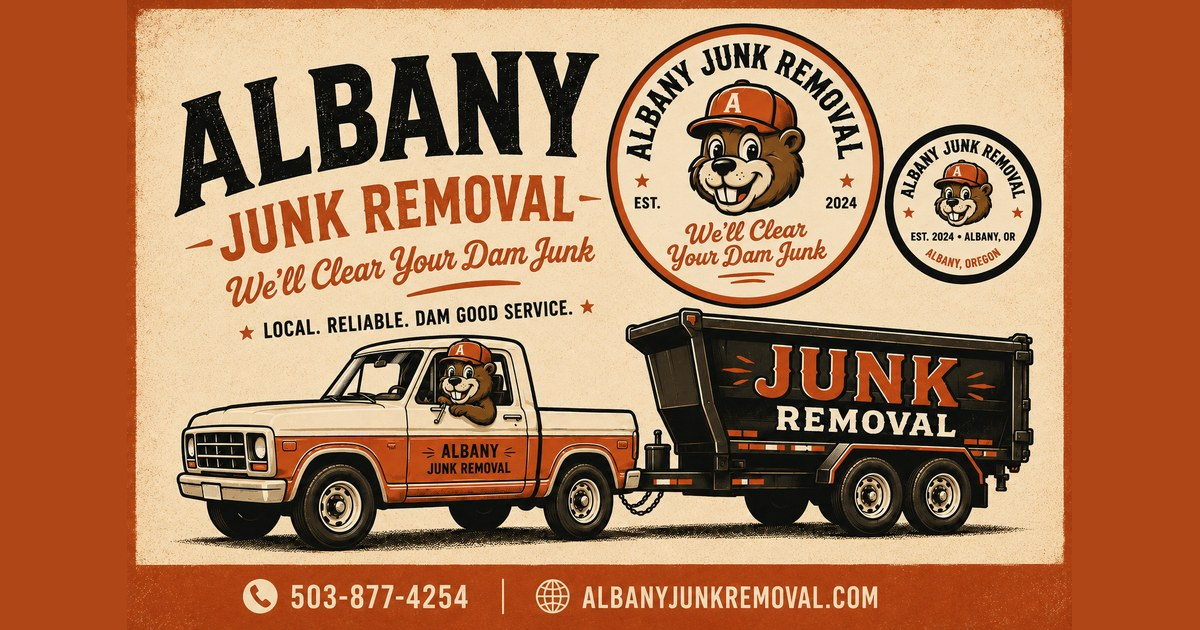
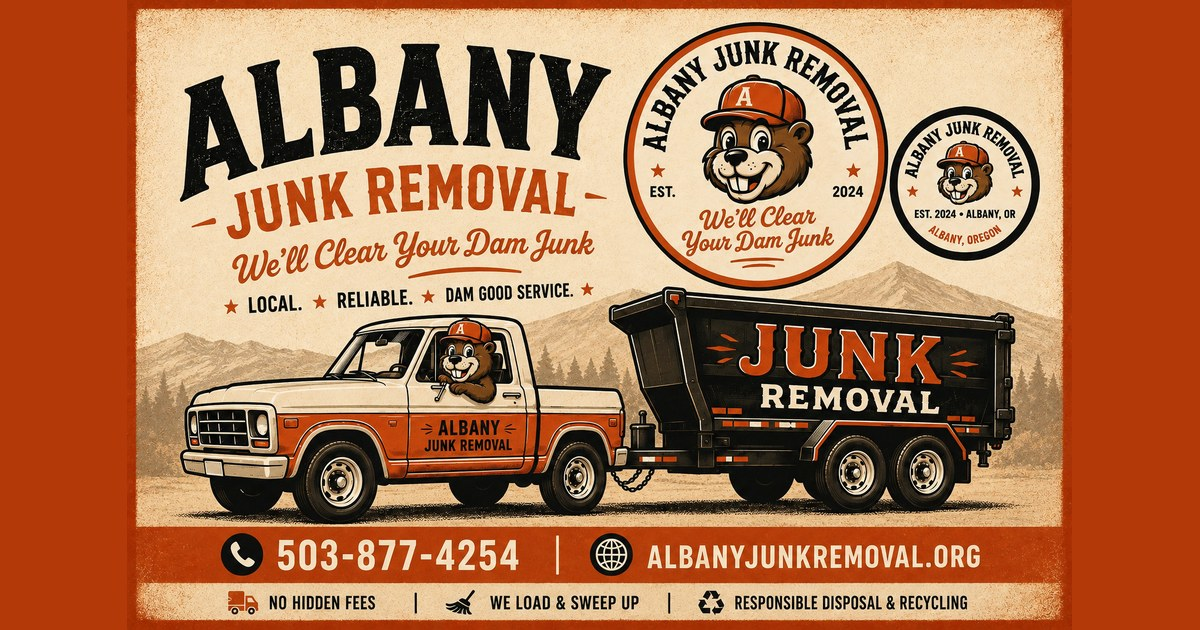
Update the social/link-preview image to the revised poster (#13)
Swap the OG/share image for the updated brand poster (mountain scene,
.org URL, and the "no hidden fees / we load & sweep up / responsible
disposal" bar), fitted to the 1200x630 card framed in brand orange.
Bump the share cache-buster to ?v=4 so platforms re-scrape.

Claude-Session: https://claude.ai/code/session_01XiNgGe3xtdENUqeFvzFZEf

diff --git a/construction-debris-removal/index.html b/construction-debris-removal/index.html
@@ -28,8 +28,8 @@
   <meta property="og:title" content="Construction Debris Removal in Albany, OR" />
   <meta property="og:description" content="We haul away remodel and demolition debris so your site stays clear. Contractor-friendly, no dumpster to rent. Upfront pricing. Get a free quote." />
   <meta property="og:url" content="https://albanyjunkremoval.org/construction-debris-removal/" />
-  <meta property="og:image" content="https://albanyjunkremoval.org/assets/og-image.jpg?v=3" />
-  <meta property="og:image:secure_url" content="https://albanyjunkremoval.org/assets/og-image.jpg?v=3" />
+  <meta property="og:image" content="https://albanyjunkremoval.org/assets/og-image.jpg?v=4" />
+  <meta property="og:image:secure_url" content="https://albanyjunkremoval.org/assets/og-image.jpg?v=4" />
   <meta property="og:image:type" content="image/jpeg" />
   <meta property="og:image:width" content="1200" />
   <meta property="og:image:height" content="630" />
@@ -38,7 +38,7 @@
   <meta name="twitter:card" content="summary_large_image" />
   <meta name="twitter:title" content="Construction Debris Removal in Albany, OR — Albany Junk Removal" />
   <meta name="twitter:description" content="We haul away remodel and demolition debris so your site stays clear. Contractor-friendly, no dumpster to rent. Upfront pricing. Get a free quote." />
-  <meta name="twitter:image" content="https://albanyjunkremoval.org/assets/og-image.jpg?v=3" />
+  <meta name="twitter:image" content="https://albanyjunkremoval.org/assets/og-image.jpg?v=4" />
   <meta name="twitter:image:alt" content="Albany Junk Removal — construction debris removal in Albany, Oregon" />
 
   <link rel="icon" href="/favicon.ico?v=4" sizes="any" />
@@ -69,7 +69,7 @@
           "telephone": "+1-503-877-4254",
           "email": "info@albanyjunkremoval.org",
           "url": "https://albanyjunkremoval.org/",
-          "image": "https://albanyjunkremoval.org/assets/og-image.jpg?v=3",
+          "image": "https://albanyjunkremoval.org/assets/og-image.jpg?v=4",
           "priceRange": "$$",
           "address": { "@type": "PostalAddress", "addressLocality": "Albany", "addressRegion": "OR", "addressCountry": "US" }
         },

diff --git a/office-cleanout/index.html b/office-cleanout/index.html
@@ -28,8 +28,8 @@
   <meta property="og:title" content="Office Cleanout Services in Albany, OR" />
   <meta property="og:description" content="We remove desks, cubicles, chairs and old equipment with minimal disruption, after hours if needed. Fully insured, upfront pricing. Get a free quote." />
   <meta property="og:url" content="https://albanyjunkremoval.org/office-cleanout/" />
-  <meta property="og:image" content="https://albanyjunkremoval.org/assets/og-image.jpg?v=3" />
-  <meta property="og:image:secure_url" content="https://albanyjunkremoval.org/assets/og-image.jpg?v=3" />
+  <meta property="og:image" content="https://albanyjunkremoval.org/assets/og-image.jpg?v=4" />
+  <meta property="og:image:secure_url" content="https://albanyjunkremoval.org/assets/og-image.jpg?v=4" />
   <meta property="og:image:type" content="image/jpeg" />
   <meta property="og:image:width" content="1200" />
   <meta property="og:image:height" content="630" />
@@ -38,7 +38,7 @@
   <meta name="twitter:card" content="summary_large_image" />
   <meta name="twitter:title" content="Office Cleanout Services in Albany, OR — Albany Junk Removal" />
   <meta name="twitter:description" content="We remove desks, cubicles, chairs and old equipment with minimal disruption, after hours if needed. Fully insured, upfront pricing. Get a free quote." />
-  <meta name="twitter:image" content="https://albanyjunkremoval.org/assets/og-image.jpg?v=3" />
+  <meta name="twitter:image" content="https://albanyjunkremoval.org/assets/og-image.jpg?v=4" />
   <meta name="twitter:image:alt" content="Albany Junk Removal — office cleanout services in Albany, Oregon" />
 
   <link rel="icon" href="/favicon.ico?v=4" sizes="any" />
@@ -69,7 +69,7 @@
           "telephone": "+1-503-877-4254",
           "email": "info@albanyjunkremoval.org",
           "url": "https://albanyjunkremoval.org/",
-          "image": "https://albanyjunkremoval.org/assets/og-image.jpg?v=3",
+          "image": "https://albanyjunkremoval.org/assets/og-image.jpg?v=4",
           "priceRange": "$$",
           "address": { "@type": "PostalAddress", "addressLocality": "Albany", "addressRegion": "OR", "addressCountry": "US" }
         },

diff --git a/estate-cleanout/index.html b/estate-cleanout/index.html
@@ -28,8 +28,8 @@
   <meta property="og:title" content="Estate Cleanout Services in Albany, OR | Full-Property Clearing" />
   <meta property="og:description" content="Compassionate, discreet estate cleanouts in Albany, Oregon for families, executors, and realtors. We donate and recycle what we can. Fully insured. Get a free quote." />
   <meta property="og:url" content="https://albanyjunkremoval.org/estate-cleanout/" />
-  <meta property="og:image" content="https://albanyjunkremoval.org/assets/og-image.jpg?v=3" />
-  <meta property="og:image:secure_url" content="https://albanyjunkremoval.org/assets/og-image.jpg?v=3" />
+  <meta property="og:image" content="https://albanyjunkremoval.org/assets/og-image.jpg?v=4" />
+  <meta property="og:image:secure_url" content="https://albanyjunkremoval.org/assets/og-image.jpg?v=4" />
   <meta property="og:image:type" content="image/jpeg" />
   <meta property="og:image:width" content="1200" />
   <meta property="og:image:height" content="630" />
@@ -38,7 +38,7 @@
   <meta name="twitter:card" content="summary_large_image" />
   <meta name="twitter:title" content="Estate Cleanout Services in Albany, OR — Albany Junk Removal" />
   <meta name="twitter:description" content="Compassionate, fully insured estate cleanouts in Albany, Oregon. Honest upfront pricing, no hidden fees." />
-  <meta name="twitter:image" content="https://albanyjunkremoval.org/assets/og-image.jpg?v=3" />
+  <meta name="twitter:image" content="https://albanyjunkremoval.org/assets/og-image.jpg?v=4" />
   <meta name="twitter:image:alt" content="Albany Junk Removal — estate cleanout services in Albany, Oregon" />
 
   <link rel="icon" href="/favicon.ico?v=4" sizes="any" />
@@ -70,7 +70,7 @@
           "telephone": "+1-503-877-4254",
           "email": "info@albanyjunkremoval.org",
           "url": "https://albanyjunkremoval.org/",
-          "image": "https://albanyjunkremoval.org/assets/og-image.jpg?v=3",
+          "image": "https://albanyjunkremoval.org/assets/og-image.jpg?v=4",
           "priceRange": "$$",
           "address": { "@type": "PostalAddress", "addressLocality": "Albany", "addressRegion": "OR", "addressCountry": "US" }
         },

diff --git a/garage-cleanout/index.html b/garage-cleanout/index.html
@@ -28,8 +28,8 @@
   <meta property="og:title" content="Garage Cleanout Services in Albany, OR" />
   <meta property="og:description" content="We clear out everything you do not want, from a few bulky items to a full garage, and sweep up. Fully insured, upfront pricing. Get a free quote." />
   <meta property="og:url" content="https://albanyjunkremoval.org/garage-cleanout/" />
-  <meta property="og:image" content="https://albanyjunkremoval.org/assets/og-image.jpg?v=3" />
-  <meta property="og:image:secure_url" content="https://albanyjunkremoval.org/assets/og-image.jpg?v=3" />
+  <meta property="og:image" content="https://albanyjunkremoval.org/assets/og-image.jpg?v=4" />
+  <meta property="og:image:secure_url" content="https://albanyjunkremoval.org/assets/og-image.jpg?v=4" />
   <meta property="og:image:type" content="image/jpeg" />
   <meta property="og:image:width" content="1200" />
   <meta property="og:image:height" content="630" />
@@ -38,7 +38,7 @@
   <meta name="twitter:card" content="summary_large_image" />
   <meta name="twitter:title" content="Garage Cleanout Services in Albany, OR — Albany Junk Removal" />
   <meta name="twitter:description" content="We clear out everything you do not want, from a few bulky items to a full garage, and sweep up. Fully insured, upfront pricing. Get a free quote." />
-  <meta name="twitter:image" content="https://albanyjunkremoval.org/assets/og-image.jpg?v=3" />
+  <meta name="twitter:image" content="https://albanyjunkremoval.org/assets/og-image.jpg?v=4" />
   <meta name="twitter:image:alt" content="Albany Junk Removal — garage cleanout services in Albany, Oregon" />
 
   <link rel="icon" href="/favicon.ico?v=4" sizes="any" />
@@ -69,7 +69,7 @@
           "telephone": "+1-503-877-4254",
           "email": "info@albanyjunkremoval.org",
           "url": "https://albanyjunkremoval.org/",
-          "image": "https://albanyjunkremoval.org/assets/og-image.jpg?v=3",
+          "image": "https://albanyjunkremoval.org/assets/og-image.jpg?v=4",
           "priceRange": "$$",
           "address": { "@type": "PostalAddress", "addressLocality": "Albany", "addressRegion": "OR", "addressCountry": "US" }
         },

diff --git a/appliance-removal/index.html b/appliance-removal/index.html
@@ -28,8 +28,8 @@
   <meta property="og:title" content="Appliance Removal in Albany, OR" />
   <meta property="og:description" content="We disconnect and haul away refrigerators, washers, dryers, stoves and more, and recycle the metal. Fully insured, upfront pricing. Get a free quote." />
   <meta property="og:url" content="https://albanyjunkremoval.org/appliance-removal/" />
-  <meta property="og:image" content="https://albanyjunkremoval.org/assets/og-image.jpg?v=3" />
-  <meta property="og:image:secure_url" content="https://albanyjunkremoval.org/assets/og-image.jpg?v=3" />
+  <meta property="og:image" content="https://albanyjunkremoval.org/assets/og-image.jpg?v=4" />
+  <meta property="og:image:secure_url" content="https://albanyjunkremoval.org/assets/og-image.jpg?v=4" />
   <meta property="og:image:type" content="image/jpeg" />
   <meta property="og:image:width" content="1200" />
   <meta property="og:image:height" content="630" />
@@ -38,7 +38,7 @@
   <meta name="twitter:card" content="summary_large_image" />
   <meta name="twitter:title" content="Appliance Removal in Albany, OR — Albany Junk Removal" />
   <meta name="twitter:description" content="We disconnect and haul away refrigerators, washers, dryers, stoves and more, and recycle the metal. Fully insured, upfront pricing. Get a free quote." />
-  <meta name="twitter:image" content="https://albanyjunkremoval.org/assets/og-image.jpg?v=3" />
+  <meta name="twitter:image" content="https://albanyjunkremoval.org/assets/og-image.jpg?v=4" />
   <meta name="twitter:image:alt" content="Albany Junk Removal — appliance removal in Albany, Oregon" />
 
   <link rel="icon" href="/favicon.ico?v=4" sizes="any" />
@@ -69,7 +69,7 @@
           "telephone": "+1-503-877-4254",
           "email": "info@albanyjunkremoval.org",
           "url": "https://albanyjunkremoval.org/",
-          "image": "https://albanyjunkremoval.org/assets/og-image.jpg?v=3",
+          "image": "https://albanyjunkremoval.org/assets/og-image.jpg?v=4",
           "priceRange": "$$",
           "address": { "@type": "PostalAddress", "addressLocality": "Albany", "addressRegion": "OR", "addressCountry": "US" }
         },

diff --git a/general-household-junk/index.html b/general-household-junk/index.html
@@ -28,8 +28,8 @@
   <meta property="og:title" content="Household Junk Removal in Albany, OR" />
   <meta property="og:description" content="If you want it gone, we'll take it. General household junk hauled away, one item or a houseful. Upfront pricing. Get a free quote." />
   <meta property="og:url" content="https://albanyjunkremoval.org/general-household-junk/" />
-  <meta property="og:image" content="https://albanyjunkremoval.org/assets/og-image.jpg?v=3" />
-  <meta property="og:image:secure_url" content="https://albanyjunkremoval.org/assets/og-image.jpg?v=3" />
+  <meta property="og:image" content="https://albanyjunkremoval.org/assets/og-image.jpg?v=4" />
+  <meta property="og:image:secure_url" content="https://albanyjunkremoval.org/assets/og-image.jpg?v=4" />
   <meta property="og:image:type" content="image/jpeg" />
   <meta property="og:image:width" content="1200" />
   <meta property="og:image:height" content="630" />
@@ -38,7 +38,7 @@
   <meta name="twitter:card" content="summary_large_image" />
   <meta name="twitter:title" content="Household Junk Removal in Albany, OR — Albany Junk Removal" />
   <meta name="twitter:description" content="If you want it gone, we'll take it. General household junk hauled away, one item or a houseful. Upfront pricing. Get a free quote." />
-  <meta name="twitter:image" content="https://albanyjunkremoval.org/assets/og-image.jpg?v=3" />
+  <meta name="twitter:image" content="https://albanyjunkremoval.org/assets/og-image.jpg?v=4" />
   <meta name="twitter:image:alt" content="Albany Junk Removal — household junk removal in Albany, Oregon" />
 
   <link rel="icon" href="/favicon.ico?v=4" sizes="any" />
@@ -69,7 +69,7 @@
           "telephone": "+1-503-877-4254",
           "email": "info@albanyjunkremoval.org",
           "url": "https://albanyjunkremoval.org/",
-          "image": "https://albanyjunkremoval.org/assets/og-image.jpg?v=3",
+          "image": "https://albanyjunkremoval.org/assets/og-image.jpg?v=4",
           "priceRange": "$$",
           "address": { "@type": "PostalAddress", "addressLocality": "Albany", "addressRegion": "OR", "addressCountry": "US" }
         },

diff --git a/storage-unit-cleanout/index.html b/storage-unit-cleanout/index.html
@@ -28,8 +28,8 @@
   <meta property="og:title" content="Storage Unit Cleanout in Albany, OR" />
   <meta property="og:description" content="We empty storage units of any size, top to bottom, so you can close the unit out. Fully insured, upfront pricing. Get a free quote." />
   <meta property="og:url" content="https://albanyjunkremoval.org/storage-unit-cleanout/" />
-  <meta property="og:image" content="https://albanyjunkremoval.org/assets/og-image.jpg?v=3" />
-  <meta property="og:image:secure_url" content="https://albanyjunkremoval.org/assets/og-image.jpg?v=3" />
+  <meta property="og:image" content="https://albanyjunkremoval.org/assets/og-image.jpg?v=4" />
+  <meta property="og:image:secure_url" content="https://albanyjunkremoval.org/assets/og-image.jpg?v=4" />
   <meta property="og:image:type" content="image/jpeg" />
   <meta property="og:image:width" content="1200" />
   <meta property="og:image:height" content="630" />
@@ -38,7 +38,7 @@
   <meta name="twitter:card" content="summary_large_image" />
   <meta name="twitter:title" content="Storage Unit Cleanout in Albany, OR — Albany Junk Removal" />
   <meta name="twitter:description" content="We empty storage units of any size, top to bottom, so you can close the unit out. Fully insured, upfront pricing. Get a free quote." />
-  <meta name="twitter:image" content="https://albanyjunkremoval.org/assets/og-image.jpg?v=3" />
+  <meta name="twitter:image" content="https://albanyjunkremoval.org/assets/og-image.jpg?v=4" />
   <meta name="twitter:image:alt" content="Albany Junk Removal — storage unit cleanout in Albany, Oregon" />
 
   <link rel="icon" href="/favicon.ico?v=4" sizes="any" />
@@ -69,7 +69,7 @@
           "telephone": "+1-503-877-4254",
           "email": "info@albanyjunkremoval.org",
           "url": "https://albanyjunkremoval.org/",
-          "image": "https://albanyjunkremoval.org/assets/og-image.jpg?v=3",
+          "image": "https://albanyjunkremoval.org/assets/og-image.jpg?v=4",
           "priceRange": "$$",
           "address": { "@type": "PostalAddress", "addressLocality": "Albany", "addressRegion": "OR", "addressCountry": "US" }
         },

diff --git a/junk-removal-lebanon-or/index.html b/junk-removal-lebanon-or/index.html
@@ -28,8 +28,8 @@
   <meta property="og:title" content="Junk Removal in Lebanon, OR | Hauling &amp; Cleanouts" />
   <meta property="og:description" content="Fast, fully insured junk removal and cleanouts in Lebanon, Oregon and across Linn County. Upfront pricing, no hidden fees. Get a free quote." />
   <meta property="og:url" content="https://albanyjunkremoval.org/junk-removal-lebanon-or/" />
-  <meta property="og:image" content="https://albanyjunkremoval.org/assets/og-image.jpg?v=3" />
-  <meta property="og:image:secure_url" content="https://albanyjunkremoval.org/assets/og-image.jpg?v=3" />
+  <meta property="og:image" content="https://albanyjunkremoval.org/assets/og-image.jpg?v=4" />
+  <meta property="og:image:secure_url" content="https://albanyjunkremoval.org/assets/og-image.jpg?v=4" />
   <meta property="og:image:type" content="image/jpeg" />
   <meta property="og:image:width" content="1200" />
   <meta property="og:image:height" content="630" />
@@ -38,7 +38,7 @@
   <meta name="twitter:card" content="summary_large_image" />
   <meta name="twitter:title" content="Junk Removal in Lebanon, OR — Albany Junk Removal" />
   <meta name="twitter:description" content="Fully insured junk removal and cleanouts in Lebanon, Oregon and across Linn County. Upfront pricing, no hidden fees." />
-  <meta name="twitter:image" content="https://albanyjunkremoval.org/assets/og-image.jpg?v=3" />
+  <meta name="twitter:image" content="https://albanyjunkremoval.org/assets/og-image.jpg?v=4" />
   <meta name="twitter:image:alt" content="Albany Junk Removal — junk removal in Lebanon, Oregon" />
 
   <link rel="icon" href="/favicon.ico?v=4" sizes="any" />
@@ -69,7 +69,7 @@
           "telephone": "+1-503-877-4254",
           "email": "info@albanyjunkremoval.org",
           "url": "https://albanyjunkremoval.org/",
-          "image": "https://albanyjunkremoval.org/assets/og-image.jpg?v=3",
+          "image": "https://albanyjunkremoval.org/assets/og-image.jpg?v=4",
           "priceRange": "$$",
           "address": { "@type": "PostalAddress", "addressLocality": "Albany", "addressRegion": "OR", "addressCountry": "US" }
         },

diff --git a/junk-removal-corvallis-or/index.html b/junk-removal-corvallis-or/index.html
@@ -28,8 +28,8 @@
   <meta property="og:title" content="Junk Removal in Corvallis, OR | Hauling &amp; Cleanouts" />
   <meta property="og:description" content="Fast, fully insured junk removal and cleanouts in Corvallis, Oregon, including OSU student move-outs. Upfront pricing, no hidden fees. Get a free quote." />
   <meta property="og:url" content="https://albanyjunkremoval.org/junk-removal-corvallis-or/" />
-  <meta property="og:image" content="https://albanyjunkremoval.org/assets/og-image.jpg?v=3" />
-  <meta property="og:image:secure_url" content="https://albanyjunkremoval.org/assets/og-image.jpg?v=3" />
+  <meta property="og:image" content="https://albanyjunkremoval.org/assets/og-image.jpg?v=4" />
+  <meta property="og:image:secure_url" content="https://albanyjunkremoval.org/assets/og-image.jpg?v=4" />
   <meta property="og:image:type" content="image/jpeg" />
   <meta property="og:image:width" content="1200" />
   <meta property="og:image:height" content="630" />
@@ -38,7 +38,7 @@
   <meta name="twitter:card" content="summary_large_image" />
   <meta name="twitter:title" content="Junk Removal in Corvallis, OR — Albany Junk Removal" />
   <meta name="twitter:description" content="Fully insured junk removal and cleanouts in Corvallis, Oregon. Upfront pricing, no hidden fees." />
-  <meta name="twitter:image" content="https://albanyjunkremoval.org/assets/og-image.jpg?v=3" />
+  <meta name="twitter:image" content="https://albanyjunkremoval.org/assets/og-image.jpg?v=4" />
   <meta name="twitter:image:alt" content="Albany Junk Removal — junk removal in Corvallis, Oregon" />
 
   <link rel="icon" href="/favicon.ico?v=4" sizes="any" />
@@ -69,7 +69,7 @@
           "telephone": "+1-503-877-4254",
           "email": "info@albanyjunkremoval.org",
           "url": "https://albanyjunkremoval.org/",
-          "image": "https://albanyjunkremoval.org/assets/og-image.jpg?v=3",
+          "image": "https://albanyjunkremoval.org/assets/og-image.jpg?v=4",
           "priceRange": "$$",
           "address": { "@type": "PostalAddress", "addressLocality": "Albany", "addressRegion": "OR", "addressCountry": "US" }
         },

diff --git a/hot-tub-removal/index.html b/hot-tub-removal/index.html
@@ -28,8 +28,8 @@
   <meta property="og:title" content="Hot Tub Removal in Albany, OR | Spa &amp; Jacuzzi Disposal" />
   <meta property="og:description" content="We drain, disassemble, and haul away old hot tubs and spas anywhere in Albany, Oregon. Fully insured, honest upfront pricing. Get a free quote." />
   <meta property="og:url" content="https://albanyjunkremoval.org/hot-tub-removal/" />
-  <meta property="og:image" content="https://albanyjunkremoval.org/assets/og-image.jpg?v=3" />
-  <meta property="og:image:secure_url" content="https://albanyjunkremoval.org/assets/og-image.jpg?v=3" />
+  <meta property="og:image" content="https://albanyjunkremoval.org/assets/og-image.jpg?v=4" />
+  <meta property="og:image:secure_url" content="https://albanyjunkremoval.org/assets/og-image.jpg?v=4" />
   <meta property="og:image:type" content="image/jpeg" />
   <meta property="og:image:width" content="1200" />
   <meta property="og:image:height" content="630" />
@@ -38,7 +38,7 @@
   <meta name="twitter:card" content="summary_large_image" />
   <meta name="twitter:title" content="Hot Tub Removal in Albany, OR — Albany Junk Removal" />
   <meta name="twitter:description" content="Fully insured hot tub &amp; spa removal in Albany, Oregon. Honest upfront pricing, no hidden fees." />
-  <meta name="twitter:image" content="https://albanyjunkremoval.org/assets/og-image.jpg?v=3" />
+  <meta name="twitter:image" content="https://albanyjunkremoval.org/assets/og-image.jpg?v=4" />
   <meta name="twitter:image:alt" content="Albany Junk Removal — hot tub and spa removal in Albany, Oregon" />
 
   <link rel="icon" href="/favicon.ico?v=4" sizes="any" />
@@ -70,7 +70,7 @@
           "telephone": "+1-503-877-4254",
           "email": "info@albanyjunkremoval.org",
           "url": "https://albanyjunkremoval.org/",
-          "image": "https://albanyjunkremoval.org/assets/og-image.jpg?v=3",
+          "image": "https://albanyjunkremoval.org/assets/og-image.jpg?v=4",
           "priceRange": "$$",
           "address": { "@type": "PostalAddress", "addressLocality": "Albany", "addressRegion": "OR", "addressCountry": "US" }
         },

diff --git a/mattress-removal/index.html b/mattress-removal/index.html
@@ -28,8 +28,8 @@
   <meta property="og:title" content="Mattress Removal in Albany, OR" />
   <meta property="og:description" content="We haul away mattresses and box springs of any size and recycle them whenever possible. Fully insured, upfront pricing. Get a free quote." />
   <meta property="og:url" content="https://albanyjunkremoval.org/mattress-removal/" />
-  <meta property="og:image" content="https://albanyjunkremoval.org/assets/og-image.jpg?v=3" />
-  <meta property="og:image:secure_url" content="https://albanyjunkremoval.org/assets/og-image.jpg?v=3" />
+  <meta property="og:image" content="https://albanyjunkremoval.org/assets/og-image.jpg?v=4" />
+  <meta property="og:image:secure_url" content="https://albanyjunkremoval.org/assets/og-image.jpg?v=4" />
   <meta property="og:image:type" content="image/jpeg" />
   <meta property="og:image:width" content="1200" />
   <meta property="og:image:height" content="630" />
@@ -38,7 +38,7 @@
   <meta name="twitter:card" content="summary_large_image" />
   <meta name="twitter:title" content="Mattress Removal in Albany, OR — Albany Junk Removal" />
   <meta name="twitter:description" content="We haul away mattresses and box springs of any size and recycle them whenever possible. Fully insured, upfront pricing. Get a free quote." />
-  <meta name="twitter:image" content="https://albanyjunkremoval.org/assets/og-image.jpg?v=3" />
+  <meta name="twitter:image" content="https://albanyjunkremoval.org/assets/og-image.jpg?v=4" />
   <meta name="twitter:image:alt" content="Albany Junk Removal — mattress removal in Albany, Oregon" />
 
   <link rel="icon" href="/favicon.ico?v=4" sizes="any" />
@@ -69,7 +69,7 @@
           "telephone": "+1-503-877-4254",
           "email": "info@albanyjunkremoval.org",
           "url": "https://albanyjunkremoval.org/",
-          "image": "https://albanyjunkremoval.org/assets/og-image.jpg?v=3",
+          "image": "https://albanyjunkremoval.org/assets/og-image.jpg?v=4",
           "priceRange": "$$",
           "address": { "@type": "PostalAddress", "addressLocality": "Albany", "addressRegion": "OR", "addressCountry": "US" }
         },

diff --git a/scrap-metal-removal/index.html b/scrap-metal-removal/index.html
@@ -28,8 +28,8 @@
   <meta property="og:title" content="Scrap Metal Removal in Albany, OR" />
   <meta property="og:description" content="We pick up scrap metal and old metal items and route them to recyclers. We do the heavy lifting. Upfront pricing. Get a free quote." />
   <meta property="og:url" content="https://albanyjunkremoval.org/scrap-metal-removal/" />
-  <meta property="og:image" content="https://albanyjunkremoval.org/assets/og-image.jpg?v=3" />
-  <meta property="og:image:secure_url" content="https://albanyjunkremoval.org/assets/og-image.jpg?v=3" />
+  <meta property="og:image" content="https://albanyjunkremoval.org/assets/og-image.jpg?v=4" />
+  <meta property="og:image:secure_url" content="https://albanyjunkremoval.org/assets/og-image.jpg?v=4" />
   <meta property="og:image:type" content="image/jpeg" />
   <meta property="og:image:width" content="1200" />
   <meta property="og:image:height" content="630" />
@@ -38,7 +38,7 @@
   <meta name="twitter:card" content="summary_large_image" />
   <meta name="twitter:title" content="Scrap Metal Removal in Albany, OR — Albany Junk Removal" />
   <meta name="twitter:description" content="We pick up scrap metal and old metal items and route them to recyclers. We do the heavy lifting. Upfront pricing. Get a free quote." />
-  <meta name="twitter:image" content="https://albanyjunkremoval.org/assets/og-image.jpg?v=3" />
+  <meta name="twitter:image" content="https://albanyjunkremoval.org/assets/og-image.jpg?v=4" />
   <meta name="twitter:image:alt" content="Albany Junk Removal — scrap metal removal in Albany, Oregon" />
 
   <link rel="icon" href="/favicon.ico?v=4" sizes="any" />
@@ -69,7 +69,7 @@
           "telephone": "+1-503-877-4254",
           "email": "info@albanyjunkremoval.org",
           "url": "https://albanyjunkremoval.org/",
-          "image": "https://albanyjunkremoval.org/assets/og-image.jpg?v=3",
+          "image": "https://albanyjunkremoval.org/assets/og-image.jpg?v=4",
           "priceRange": "$$",
           "address": { "@type": "PostalAddress", "addressLocality": "Albany", "addressRegion": "OR", "addressCountry": "US" }
         },
